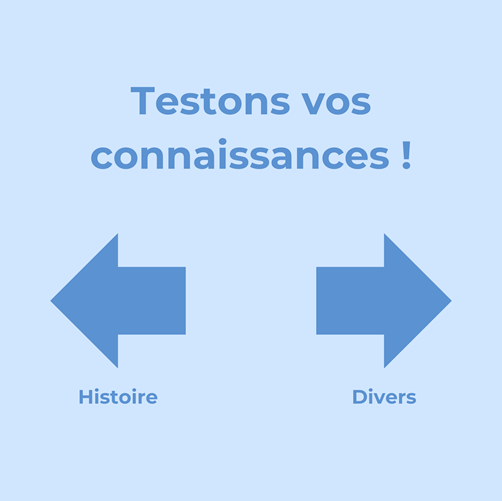
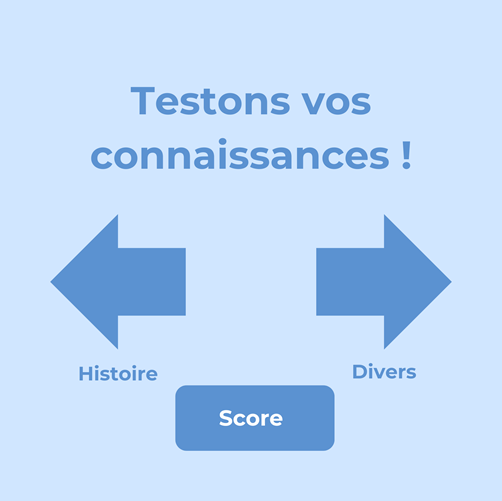
amelio sans gestion erreurs

Changed region(s): [[0.0896, 0.4192, 0.8964, 0.8982]]

diff --git a/src/Game/CultGame.java b/src/Game/CultGame.java
@@ -14,6 +14,7 @@ import java.util.Arrays;
 import java.util.Scanner;
 
 import javax.swing.ImageIcon;
+import javax.swing.JButton;
 import javax.swing.JPanel;
 import javax.swing.Timer;
 
@@ -22,6 +23,9 @@ public class CultGame extends JPanel implements ActionListener,KeyListener{
 	ArrayList<Image> images;
 	
 	ArrayList<ArrayList<Integer>> positions;
+	
+    private ArrayList<Integer> choosenNumbersHist= new ArrayList<Integer>();
+    private ArrayList<Integer> choosenNumbersDivers= new ArrayList<Integer>();
 	
 	Theme jeu;
 	
@@ -39,9 +43,19 @@ public class CultGame extends JPanel implements ActionListener,KeyListener{
 	
 	private final int boardwidth=505;
 	private final int boardheight=505;
+	JButton b;
+
 
 	
-	public CultGame() {		
+	public CultGame() {	
+		b=new JButton();
+		
+		b.setBounds(180, 390, 150, 50);
+		b.addActionListener(this);
+        b.setOpaque(false);
+        b.setContentAreaFilled(false);
+        b.setBorderPainted(false);
+        
 		images=new ArrayList<Image>();
 		positions = new ArrayList<ArrayList<Integer>>();		
 		
@@ -56,15 +70,36 @@ public class CultGame extends JPanel implements ActionListener,KeyListener{
 	public void chooseTheme() {
 		positions.add(new ArrayList<Integer>(Arrays.asList(0, 0)));
 		this.addImage("src//debut.png");
+		this.add(b);
 		this.repaint();
 	}
 	
 	public void start_game() {
 		reset();
+		this.remove(b);
+		this.revalidate();
+		this.repaint();
 		this.setPosition();
 		this.addImage("src//fondCultGe.png");
 		this.addImage("src//question.png");
-		this.addImages(jeu.gameSet());
+		if (jeu instanceof Histoire) {
+			if (choosenNumbersHist.size()==jeu.getVerites().size()) {
+				choosenNumbersHist= new ArrayList<Integer>();
+			}
+			this.addImages(jeu.gameSet(choosenNumbersHist));
+			choosenNumbersHist.add(jeu.getChoix());
+
+		}
+		else {
+			if (choosenNumbersDivers.size()==jeu.getVerites().size()) {
+				choosenNumbersDivers= new ArrayList<Integer>();
+			}
+			this.addImages(jeu.gameSet(choosenNumbersDivers));
+			choosenNumbersDivers.add(jeu.getChoix());
+
+
+
+		}
 		this.addImages(new ArrayList<String>(Arrays.asList(
 				"src//arrow//a1.png",
 				"src//arrow//a2.png",
@@ -118,8 +153,16 @@ public class CultGame extends JPanel implements ActionListener,KeyListener{
 
 	@Override
 	public void actionPerformed(ActionEvent e) {
-		move();
-		repaint();
+		if (e.getSource()==b) {
+			reset();
+			positions.add(new ArrayList<Integer>(Arrays.asList(0, 0)));
+			this.addImage("src//score.png");
+			this.repaint();
+		}
+		else {
+			move();
+			repaint();
+		}
 		
 	}
 	
@@ -142,7 +185,7 @@ public class CultGame extends JPanel implements ActionListener,KeyListener{
 		case 6 :
 			
 			positions.get(i).set(1,positions.get(i).get(1)-1);
-			if (positions.get(i).get(1)==181) {
+			if (positions.get(i).get(1)==211) {
 				afficheResult(result);
 				movementOn.stop();
 
@@ -150,7 +193,7 @@ public class CultGame extends JPanel implements ActionListener,KeyListener{
 			break;
 		case 7 :
 			positions.get(i).set(0,positions.get(i).get(0)-1);
-			if (positions.get(i).get(0)==-60) {
+			if (positions.get(i).get(0)==-30) {
 				afficheResult(result);
 				movementOn.stop();
 
@@ -158,7 +201,7 @@ public class CultGame extends JPanel implements ActionListener,KeyListener{
 			break;
 		case 8 :
 			positions.get(i).set(0,positions.get(i).get(0)+1);
-			if (positions.get(i).get(0)==60) {
+			if (positions.get(i).get(0)==30) {
 				afficheResult(result);
 				movementOn.stop();
 
@@ -166,7 +209,7 @@ public class CultGame extends JPanel implements ActionListener,KeyListener{
 			break;
 		case 9 :
 			positions.get(i).set(1,positions.get(i).get(1)+1);
-			if (positions.get(i).get(1)==491) {
+			if (positions.get(i).get(1)==461) {
 				afficheResult(result);
 				movementOn.stop();
 

diff --git a/src/Game/Histoire.java b/src/Game/Histoire.java
@@ -8,15 +8,30 @@ public class Histoire extends Theme {
         verites = new ArrayList<>();
 
         // Ajout des mensonges
-        ArrayList<String> mensongesSet1 = new ArrayList<>();
-        mensongesSet1.add("src//USAelec//4.png");
-        mensongesSet1.add("src//USAelec//3.png");
-        mensongesSet1.add("src//USAelec//2.png");
+        ArrayList<String> mensongesSet = new ArrayList<>();
+        mensongesSet.add("src//USAelec//4.png");
+        mensongesSet.add("src//USAelec//3.png");
+        mensongesSet.add("src//USAelec//2.png");
 
-        mensonges.add(mensongesSet1);
+        mensonges.add(mensongesSet);
+        
+        mensongesSet = new ArrayList<>();
+        mensongesSet.add("src//traiteVers//4.png");
+        mensongesSet.add("src//traiteVers//3.png");
+        mensongesSet.add("src//traiteVers//2.png");  
+        mensonges.add(mensongesSet);
+        
+        mensongesSet = new ArrayList<>();
+        mensongesSet.add("src//revFr//4.png");
+        mensongesSet.add("src//revFr//3.png");
+        mensongesSet.add("src//revFr//2.png");  
+        mensonges.add(mensongesSet);
 
         //Ajout vérités
         verites.add("src//USAelec//verite.png");
+        verites.add("src//traiteVers//verite.png");
+        verites.add("src//revFr//verite.png");
+
 
 	}
 	

diff --git a/src/Game/Theme.java b/src/Game/Theme.java
@@ -5,7 +5,7 @@ import java.util.Random;
 public abstract class Theme {
 	protected ArrayList<ArrayList<String>> mensonges;
     protected ArrayList<String> verites;
-    protected ArrayList<Integer> choosenNumbers= new ArrayList<Integer>();
+    private int choix;
     private Random alea;
     
     private int placeVerite;
@@ -21,15 +21,16 @@ public abstract class Theme {
         return verites;
     }
     
-    public ArrayList<String> gameSet(){
+    public ArrayList<String> gameSet(ArrayList<Integer> choosenNumbers){
     	ArrayList<String> setJeu = new ArrayList<String>();
     	alea=new Random();
     	int res = alea.nextInt(verites.size());
     	while (choosenNumbers.contains(res)) {
+    		System.out.println("here");
     		res=alea.nextInt(verites.size());
     	}
-    	choosenNumbers.add(res);
     	System.out.println(res);
+    	choix=res;
     	placeVerite=alea.nextInt(3);
     	switch(placeVerite) {
     	case 0:
@@ -63,5 +64,9 @@ public abstract class Theme {
     public int getPlaceVerite() {
     	return placeVerite;
     }
+
+	public int getChoix() {
+		return choix;
+	}
         
 }

diff --git a/src/Game/FaitsDivers.java b/src/Game/FaitsDivers.java
@@ -19,12 +19,18 @@ public class FaitsDivers extends Theme{
         mensongesSet.add("src//PGanimal//3.png");
         mensongesSet.add("src//PGanimal//2.png");  
         mensonges.add(mensongesSet);
-
+        
+        mensongesSet = new ArrayList<>();
+        mensongesSet.add("src//Stlib//4.png");
+        mensongesSet.add("src//Stlib//3.png");
+        mensongesSet.add("src//Stlib//2.png");  
+        mensonges.add(mensongesSet);
         
 
         //Ajout vérités
         verites.add("src//capAustralie//verite.png");
         verites.add("src//PGanimal//verite.png");
+        verites.add("src//Stlib//verite.png");
 
         
         
